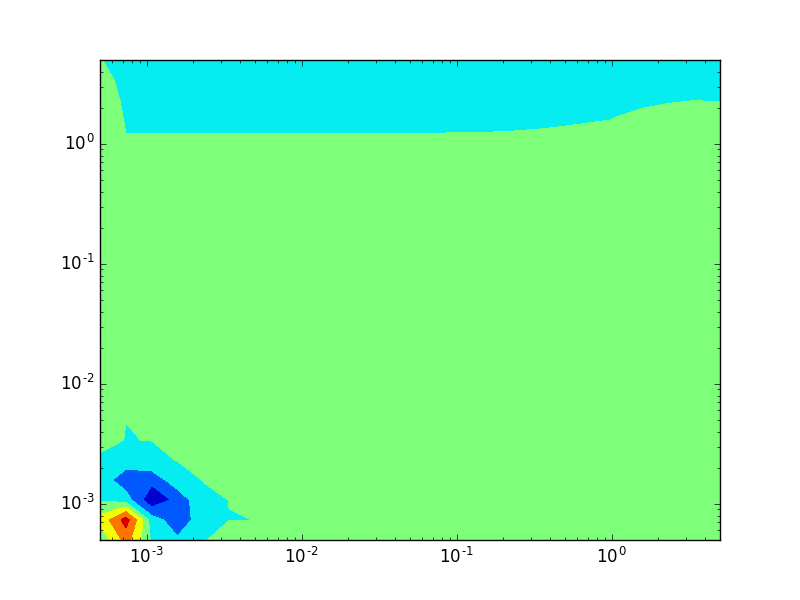
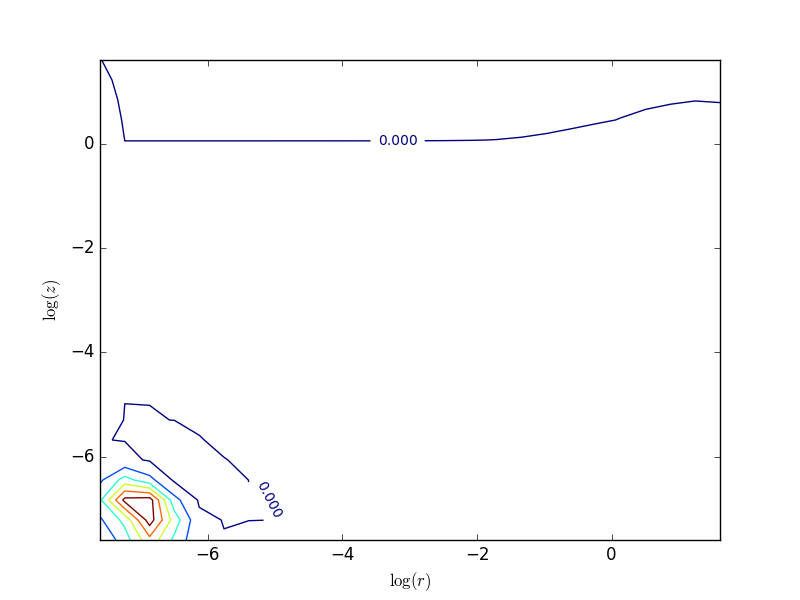
no with isothermal solver

diff --git a/SIDM_pde_nobaryons.py b/SIDM_pde_nobaryons.py
@@ -33,7 +33,6 @@ def NFW_template(r,z):
     Rs = 23. #in kpc
     R = np.sqrt(r**2+z**2)
     return np.log(rhos/rho0 * Rs/R * 1/(1+R/Rs)**2)
-
        
 def relax(u, r, z, r1, rho0, iterations):
     #u is the solution to the diffeq, given in terms of log(rho/rho0)
@@ -45,7 +44,7 @@ def relax(u, r, z, r1, rho0, iterations):
         u[0,:] = u[1,:] 
         u[:,0] = u[:,1] 
         #enforces the derivative goes to 0 at r,z = 0, which is required by symmetry / smoothness
-        residual = r1/r*np.gradient(u)[0]/delta_r + np.gradient(u,2)[0]/delta_r**2 + np.gradient(u,2)[1]/delta_z**2 + g*(baryon_profile(r,z)/rho0+np.exp(u))
+        residual = r1/r*np.gradient(u)[0]/delta_r + np.gradient(u,2)[0]/delta_r**2 + np.gradient(u,2)[1]/delta_z**2 + g*(np.exp(u))
         time_step = 1e-3/residual.max()
         u += time_step*residual
         u[-1,:] = NFW_template(r[-1,:],z[-1,:])
@@ -55,7 +54,7 @@ def relax(u, r, z, r1, rho0, iterations):
 
 r_len = 26
 z_len = 25
-bound = 1
+bound = 1 # used to easily scale out boundary
 scale = -4. #exponential term to describe innermost point r_inner = r1 * 10^scale
 r1 = 5. # in kpc 
 rho0 = 5.e6 # scale density of the solution in M_sun/kpc^3
@@ -73,28 +72,27 @@ z = np.tile(z[np.newaxis,:],(r_len,1))
 
 u = NFW_template(r, z) #u is the solution to the diffeq, given in terms of log(rho/rho0)       
 
-
 #### PLOTS BEFORE RELAXATION ####
 fig = plt.figure()
 ax = fig.add_subplot(111, projection='3d')
 ax.plot_wireframe(np.log(r), np.log(z), u, rstride=2, cstride=2)
 plt.xlabel(r'$\log(r)$')
 plt.ylabel(r'$\log(z)$')
-plt.savefig('wireplot_before.png')
+plt.savefig('wireplot_before_iso.png')
 plt.clf()
 
 CS = plt.contour(np.log(r),np.log(z),u)
 plt.clabel(CS, inline=1,fontsize=10)
 plt.xlabel(r'$\log(r)$')
 plt.ylabel(r'$\log(z)$')
-plt.savefig('log_density_before.png')
+plt.savefig('log_density_before_iso.png')
 plt.clf()
 
 CS = plt.contour(r,z,u)
 plt.clabel(CS, inline=1,fontsize=10)
 plt.xlabel('Radius (kpc)')
 plt.ylabel('Height (z) (kpc)')
-plt.savefig('density_before.png')
+plt.savefig('density_before_iso.png')
 plt.clf()
 
 plt.contourf(r,z,u)
@@ -102,9 +100,8 @@ plt.xscale('log')
 plt.yscale('log')
 plt.xlabel(r'$\log(r)$')
 plt.ylabel(r'$\log(z)$')
-plt.savefig('log_density_filled_before.png')
+plt.savefig('log_density_filled_before_iso.png')
 plt.clf()
-
 
 
 
@@ -118,14 +115,14 @@ CS = plt.contour(np.log(r),np.log(z),u)
 plt.clabel(CS, inline=1, fontsize=10)
 plt.xlabel(r'$\log(r)$')
 plt.ylabel(r'$\log(z)$')
-plt.savefig('log_density_after.png')
+plt.savefig('log_density_after_iso.png')
 plt.clf()
 
 CS = plt.contour(r,z,u)
 plt.clabel(CS, inline=1, fontsize=10)
 plt.xlabel('Radius (kpc)')
 plt.ylabel('Height (z) (kpc)')
-plt.savefig('density_after.png')
+plt.savefig('density_after_iso.png')
 plt.clf()
 
 fig = plt.figure()
@@ -133,7 +130,7 @@ ax = fig.add_subplot(111, projection='3d')
 ax.plot_wireframe(np.log(r), np.log(z), u, rstride=2, cstride=2)
 plt.xlabel(r'$\log(r)$')
 plt.ylabel(r'$\log(z)$')
-plt.savefig('wireplot_after.png')
+plt.savefig('wireplot_after_iso.png')
 plt.clf()
 
 plt.contourf(r,z,u)
@@ -141,7 +138,7 @@ plt.xscale('log')
 plt.yscale('log')
 plt.xlabel(r'$\log(r)$')
 plt.ylabel(r'$\log(z)$')
-plt.savefig('log_density_filled_after.png')
+plt.savefig('log_density_filled_after_iso.png')
 plt.clf()
 
 
@@ -150,7 +147,7 @@ CS = plt.contour(np.log(r),np.log(z),residual)
 plt.clabel(CS, inline=1, fontsize=10)
 plt.xlabel(r'$\log(r)$')
 plt.ylabel(r'$\log(z)$')
-plt.savefig('final_residual.png')
+plt.savefig('final_residual_iso.png')
 plt.clf()
 
 fig = plt.figure()
@@ -158,21 +155,20 @@ ax = fig.add_subplot(111, projection='3d')
 ax.plot_wireframe(np.log(r), np.log(z), residual, rstride=2, cstride=2)
 plt.xlabel(r'$\log(r)$')
 plt.ylabel(r'$\log(z)$')
-plt.savefig('wireplot_residual.png')
+plt.savefig('wireplot_residual_iso.png')
 plt.clf()
 
 CS = plt.contour(np.log(r),np.log(z),residual/u)
 plt.clabel(CS, inline=1, fontsize=10)
 plt.xlabel(r'$\log(r)$')
 plt.ylabel(r'$\log(z)$')
-plt.savefig('final_residual_contrast.png')
+plt.savefig('final_residual_contrast_iso.png')
 plt.clf()
 
 fig = plt.figure()
 ax = fig.add_subplot(111, projection='3d')
 ax.plot_wireframe(np.log(r), np.log(z), residual/u, rstride=2, cstride=2)
-plt.xlabel(r'$\log(r)$')
-plt.ylabel(r'$\log(z)$')
-plt.savefig('wireplot_residual_contrast.png')
+plt.savefig('wireplot_residual_contrast_iso.png')
 plt.clf()
                 
+

diff --git a/README.md b/README.md
@@ -1,1 +1,7 @@
 # SIDM
+
+SIDM_pde.py calculates the log of the density of DM in the presence of some baryon potential
+
+SIDM_pde_nobaryons.py same as above but no baryons, which gets the isothermal core solution
+
+all the plots with _iso suffix comes from the nobaryons solution
